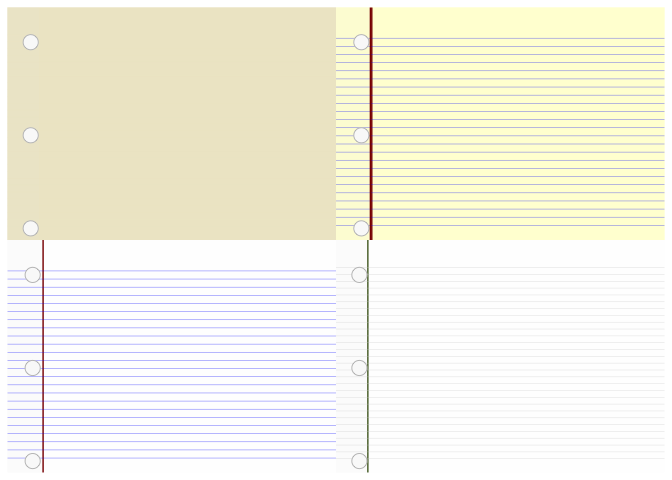
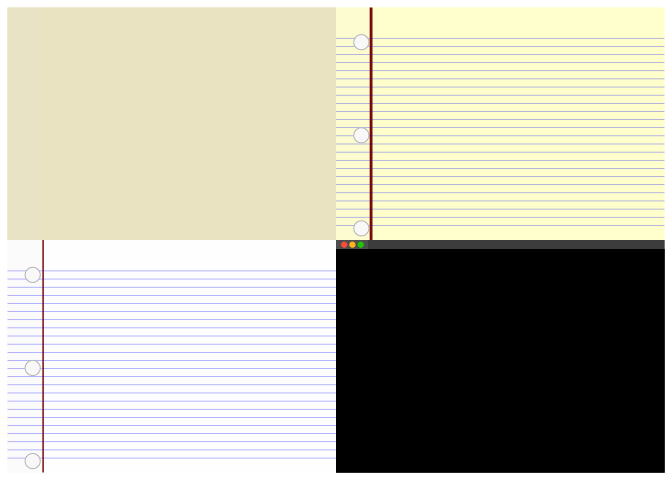
new styles

diff --git a/README.md b/README.md
@@ -8,8 +8,8 @@
   - [`stamp_notebook` contains instructions for stamping down a notebook
     paper
     look](#stamp_notebook-contains-instructions-for-stamping-down-a-notebook-paper-look)
-- [Styling aspiration for graph-side
-  (right-hand-side)](#styling-aspiration-for-graph-side-right-hand-side)
+- [Styling aspiration, not exported, for graph-side
+  (right-hand-side)](#styling-aspiration-not-exported-for-graph-side-right-hand-side)
   - [`code_df_to_code_plot()` prepares
     df](#code_df_to_code_plot-prepares-df)
   - [`ggram:::clearhistory()` lets you clear your history using code,
@@ -114,9 +114,6 @@ compute_panel_code <- function(data, scales){
     mutate(label = .data$code)
   
 }
-
-
-
 
 compute_panel_code_line_numbers <- function(data, scales){
   
@@ -234,9 +231,12 @@ stamp_punched_holes <- function(){
 }
 
 
-stamp_notebook <- function(vline_color = "darkred", hline_color = "blue", paper_color = alpha("whitesmoke", .1),
+stamp_notebook <- function(vline_color = "darkred", 
+                           hline_color = "blue", 
+                           paper_color = alpha("whitesmoke", .1),
                            width = 35,
-                           height = 20, punch_holes = T){
+                           height = 20, 
+                           punch_holes = T){
   
   punch_base <- annotate("point", x = -1.5, y = I(c(1,9,17)/20) , color = "white", size = 5)
   punch_edge <- annotate("point", x = -1.5, y = I(c(1,9,17)/20), shape = 21, 
@@ -283,7 +283,8 @@ stamp_notebook(vline_color = "darkolivegreen",
                hline_color = alpha("lightgrey", .1), 
                paper_color = alpha("whitesmoke", .1),
                width = 50,
-               height = 30)
+               height = 30,
+               punch_holes = F)
   
 }
 
@@ -294,7 +295,26 @@ stamp_notebook(vline_color = alpha("cornsilk2",0),
                hline_color = alpha("cornsilk2",0), 
                paper_color = alpha("cornsilk2",1),
                width = 50,
-               height = 30)
+               height = 30,
+               punch_holes = F)
+  
+}
+
+stamp_dark_mode <- function(){
+  
+list(stamp_notebook(vline_color = alpha("grey30",0), 
+               hline_color = alpha("grey30",0), 
+               paper_color = alpha("grey30",1),
+               width = 50,
+               height = 30,
+               punch_holes = F
+            ),
+  annotate("rect", xmin = -Inf, xmax = Inf, ymin = .96 |> I(), ymax = Inf, fill = "black"),
+     annotate("point", x = I(c(.025,.05, .075)), color = c("tomato", "goldenrod1", "green3"),
+              y = I(.98))
+  
+  )
+
   
 }
 
@@ -327,13 +347,16 @@ p3 <- ggplot() +
 p4 <- ggplot() + 
   stamp_typed_page()
 
+p4 <- ggplot() + 
+  stamp_dark_mode()
+
 library(patchwork)
 (p1 + p2)/(p3 + p4)
 ```
 
 <img src="man/figures/README-unnamed-chunk-10-1.png" width="100%" />
 
-# Styling aspiration for graph-side (right-hand-side)
+# Styling aspiration, not exported, for graph-side (right-hand-side)
 
 ``` r
 stamp_graph_paper <- function(){
@@ -370,16 +393,31 @@ ggram:::clearhistory()
 ## `code_df_to_code_plot()` prepares df
 
 ``` r
-code_df_to_code_plot <- function(code_df, style = stamp_notebook()){
+code_df_to_code_plot <- function(code_df, 
+                                 style = NULL, 
+                                 highlight_colors = c(alpha("grey90",.4), alpha("yellow", .4)),
+                                 family = "mono",
+                                 size = 1,
+                                 vline_color = "darkred", 
+                                 hline_color = "blue", 
+                                 paper_color = alpha("whitesmoke", .1),
+                                 width = 35,
+                                 height = 20, 
+                                 punch_holes = TRUE
+                       
+                                 
+                                 ){
+  
+  style <- style %||% stamp_notebook(vline_color, hline_color, paper_color, width, height, punch_holes)
   
   code_df |>
   ggplot() +
     aes(code = code) +
     geom_tile(stat = StatCode) + 
-    scale_fill_manual(values = c(alpha("grey90",.4), alpha("yellow", .4)), 
+    scale_fill_manual(values = highlight_colors, 
                       breaks = c(FALSE, TRUE), guide = "none") +
-    geom_text(stat = StatCode, alpha = .7, family = "mono") +
-    geom_text(stat = StatCodeLineNumbers, family = "mono") +
+    geom_text(stat = StatCode, alpha = .7, family = family) +
+    geom_text(stat = StatCodeLineNumbers, family = family) +
     theme(legend.position = "none") + 
     style
   
@@ -476,7 +514,7 @@ specify_textoutput_plot <- function(output){
 
 ``` r
 #' @export
-ggram <- function(title = NULL, widths = c(1,1), code = NULL, style = stamp_notebook(), ...){
+ggram <- function(title = NULL, widths = c(1,1), code = NULL, style = stamp_notebook(), output_plot = NULL, ...){
   
   code <- get_code()
   code_plot <- specify_code_plot(code, style = style)
@@ -502,6 +540,7 @@ ggram("Here is my ggram")
 ```
 
 ``` r
+#' @export
 ggram_save <- function(..., width = 8, height = 5){
   
   ggsave(..., width = width, height = height)
@@ -557,7 +596,7 @@ knitr::include_graphics("man/figures/a_ggram_df.png")
   ggram_df_output(code = _)
 ```
 
-<img src="man/figures/README-unnamed-chunk-19-2.png" width="100%" />
+<img src="man/figures/README-unnamed-chunk-18-2.png" width="100%" />
 
 ``` r
 knitr::include_graphics("man/figures/a_ggram_text.png")
@@ -585,26 +624,26 @@ knitrExtra::chunk_names_get()
 #> [13] "unnamed-chunk-9"      "unnamed-chunk-10"     "unnamed-chunk-11"    
 #> [16] "unnamed-chunk-12"     "code_df_to_code_plot" "unnamed-chunk-13"    
 #> [19] "clearhistory"         "helpers"              "ggram"               
-#> [22] "unnamed-chunk-14"     "unnamed-chunk-15"     "unnamed-chunk-16"    
-#> [25] "unnamed-chunk-17"     "ggram_df_output"      "unnamed-chunk-18"    
-#> [28] "unnamed-chunk-19"     "unnamed-chunk-20"     "unnamed-chunk-21"    
-#> [31] "unnamed-chunk-22"     "unnamed-chunk-23"     "unnamed-chunk-24"    
-#> [34] "ggram_tp_output"      "unnamed-chunk-25"     "ggram_text_output"   
-#> [37] "unnamed-chunk-26"     "unnamed-chunk-27"     "unnamed-chunk-28"    
-#> [40] "hadley"               "unnamed-chunk-29"     "unnamed-chunk-30"    
-#> [43] "gif_from_ggplots"     "unnamed-chunk-31"
+#> [22] "unnamed-chunk-14"     "ggram_save"           "unnamed-chunk-15"    
+#> [25] "unnamed-chunk-16"     "ggram_df_output"      "unnamed-chunk-17"    
+#> [28] "unnamed-chunk-18"     "unnamed-chunk-19"     "unnamed-chunk-20"    
+#> [31] "unnamed-chunk-21"     "unnamed-chunk-22"     "unnamed-chunk-23"    
+#> [34] "ggram_tp_output"      "unnamed-chunk-24"     "ggram_text_output"   
+#> [37] "unnamed-chunk-25"     "unnamed-chunk-26"     "unnamed-chunk-27"    
+#> [40] "hadley"               "unnamed-chunk-28"     "unnamed-chunk-29"    
+#> [43] "gif_from_ggplots"     "unnamed-chunk-30"
 knitrExtra::chunk_to_dir(
   c("clearhistory", 
     "StatCode", 
     "stamp_notebook", 
     "helpers",
-    "ggram", "ggram_df_output", 
+    "ggram", 
+    "ggram_df_output", 
     "code_file_to_code_df", 
     "ggram_text_output",
     "ggram_tp_output",
-    "code_df_to_code_plot"#, 
-    # "gif_from_ggplots"
-    ))
+    "code_df_to_code_plot",
+    "ggram_save"))
 ```
 
 ``` r
